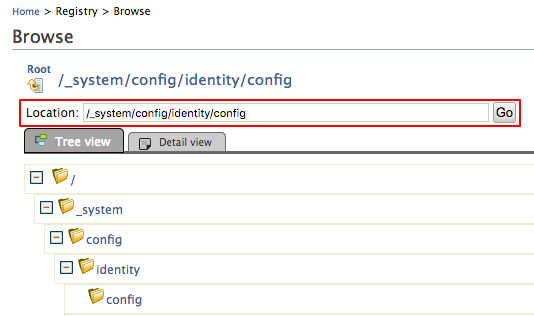
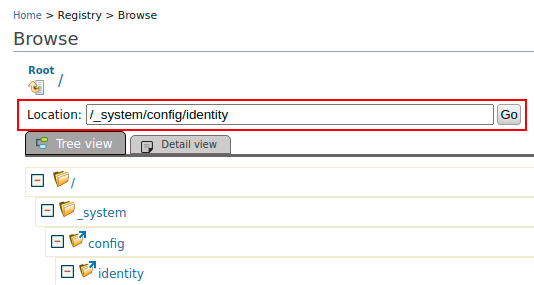
Improve Handling browser back button doc

Changed region(s): [[0.0, 0.0281, 1.0, 1.0]]

diff --git a/en/docs/develop/customizing-the-authentication-endpoint.md b/en/docs/develop/customizing-the-authentication-endpoint.md
@@ -102,7 +102,7 @@ Do the following configurations to enable this feature.
     file, set its priority to 0. Otherwise ignore this step.
 
     ```toml
-    "[admin_console.authenticator.saml_sso_authenticator]
+    [admin_console.authenticator.saml_sso_authenticator]
     enable = true
     priority = 0
     ```
@@ -302,68 +302,76 @@ below steps:
     ![Registry Browse menu item](../assets/img/using-wso2-identity-server/registry-browse-menu-item.png)
 
 3.  Browse the registry and go to
-    `          /_system/config/identity/config.         `  
+    `/_system/config/identity.`  
     ![Registry browser](../assets/img/using-wso2-identity-server/registry-browser.png)  
     Once you navigate to
-    `          /_system/config/identity/config         `, follow the
-    steps below to add a registry resource.
+    `/_system/config/identity`, follow the
+    steps below to add a registry collection.
 
-4.  Click **Add Resource**.  
-    ![Add resource option](../assets/img/using-wso2-identity-server/add-resource-option.png)
+4.  Click **Add Collection**.  
+    ![Add collection option](../assets/img/using-wso2-identity-server/add-collection-option.png)
 
 5.  Fill the form with following information.
+    -   Name : config
+
+    ![Add collection form](../assets/img/using-wso2-identity-server/add-collection-form.png)
+
+    Once the **Add** button is clicked, it will navigate to the new collection
+    `/_system/config/identity/config`. Then, follow the
+    steps below to add a registry resource.
+
+6.  Click **Add Resource**.  
+    ![Add resource option](../assets/img/using-wso2-identity-server/add-resource-option.png)
+
+7.  Fill the form with following information.
     -   Method : Select **Create text content** from the dropdown.
 
     -   Name : Enter **relyingPartyRedirectUrls** as Name.
 
     ![Add resource form](../assets/img/using-wso2-identity-server/add-resource-form.png) 
 
-6.  Click the **Add** button. The created registry resource can be seen
+8.  Click the **Add** button. The created registry resource can be seen
     once you click on **Add** button.  
     ![Registry resource](../assets/img/using-wso2-identity-server/registry-resource.png) 
 
-7.  Click on the added resource (relyingPartyRedirectUrls). You can see
+9.  Click on the added resource (relyingPartyRedirectUrls). You can see
     the **Properties** section.  
     ![Resource properties](../assets/img/using-wso2-identity-server/resource-properties.png) 
 
-8.  Click the “+” sign at the right hand corner of **Properties**
+10.  Click the “+” sign at the right hand corner of **Properties**
     section. This allows you to add a property to the resource.
 
-9.  Click **Add New Property**.  
+11.  Click **Add New Property**.  
     ![Add New Property option](../assets/img/using-wso2-identity-server/add-new-property-option.png)
 
-10. Enter the relying party name for name and the redirect URL for
+12. Enter the relying party name for name and the redirect URL for
     value.  
     ![Add New Property form](../assets/img/using-wso2-identity-server/add-new-property-form.png)
 
-    !!! note
-    
-        The redirectURL is the URL you want the application to be redirected
-        when the back button is pressed.
-    
 
     !!! info
+        - Relying party name can be derived as below:
+            - Relying party name for SAML : Issuer Name
+            - Relying party name for OAuth2 : OAuth Client Key  
+
+        - Redirect URL is the URL you want the application to be redirected 
+          when the back button is pressed.
+
         - Relying party name with redirect URL needs to be configured like below:
-           <code>
-           \<Oauth2\_client\_id\>=\<login\_redirect\_url\>  
-           \<Issuer Name\>=\<login\_redirect\_url\>
-           </code>        
+           - <OAuth2_client_id>=<login_redirect_url>  
+           - <SAML_Issuer_Name>=<login_redirect_url>
 
-        - Also note the following settings:
-            - Relying party for SAML = Issuer Name
-            - Relying party for Oauth2 = OAuth Client Key  
-
-        - Following are two sample values for Name and value:
+        - Following are two sample values for Name and Value:
             - Name : USER_PORTAL
             - Value : https://localhost:9443/user-portal/overview        
 
         - If you are using travelocity as the sample app, you can use the below values:
-            - Name : travelocity.com
+            - Name : travelocity.com
             - Value : http://localhost:8080/travelocity.com/home.jsp
 
-11. Once you fill name and the value, click the **Add** button.
+13. Once you fill name and the value, click the **Add** button.
 
-12. Now try out the back button and book marking scenarios.
+14. Now try out the back button and book marking scenarios.
 
     !!! note
     
